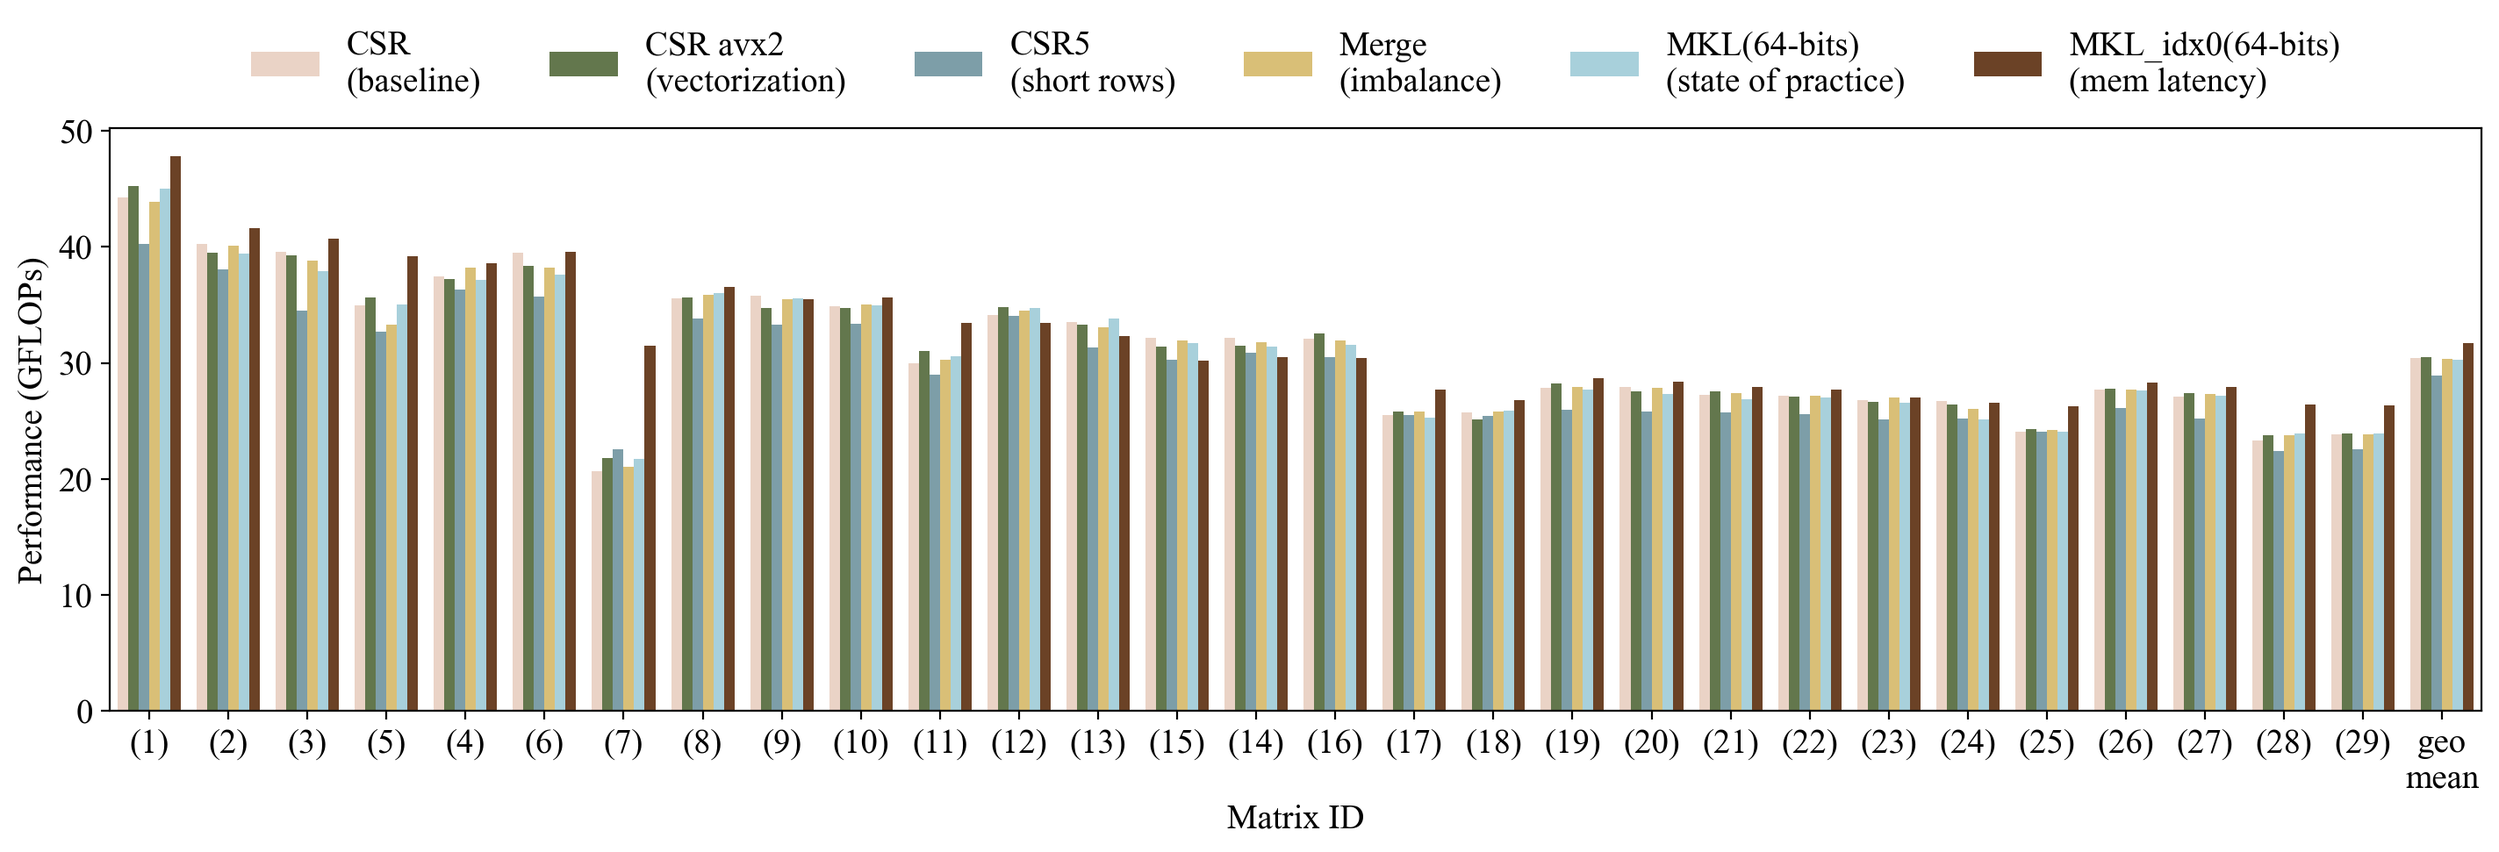
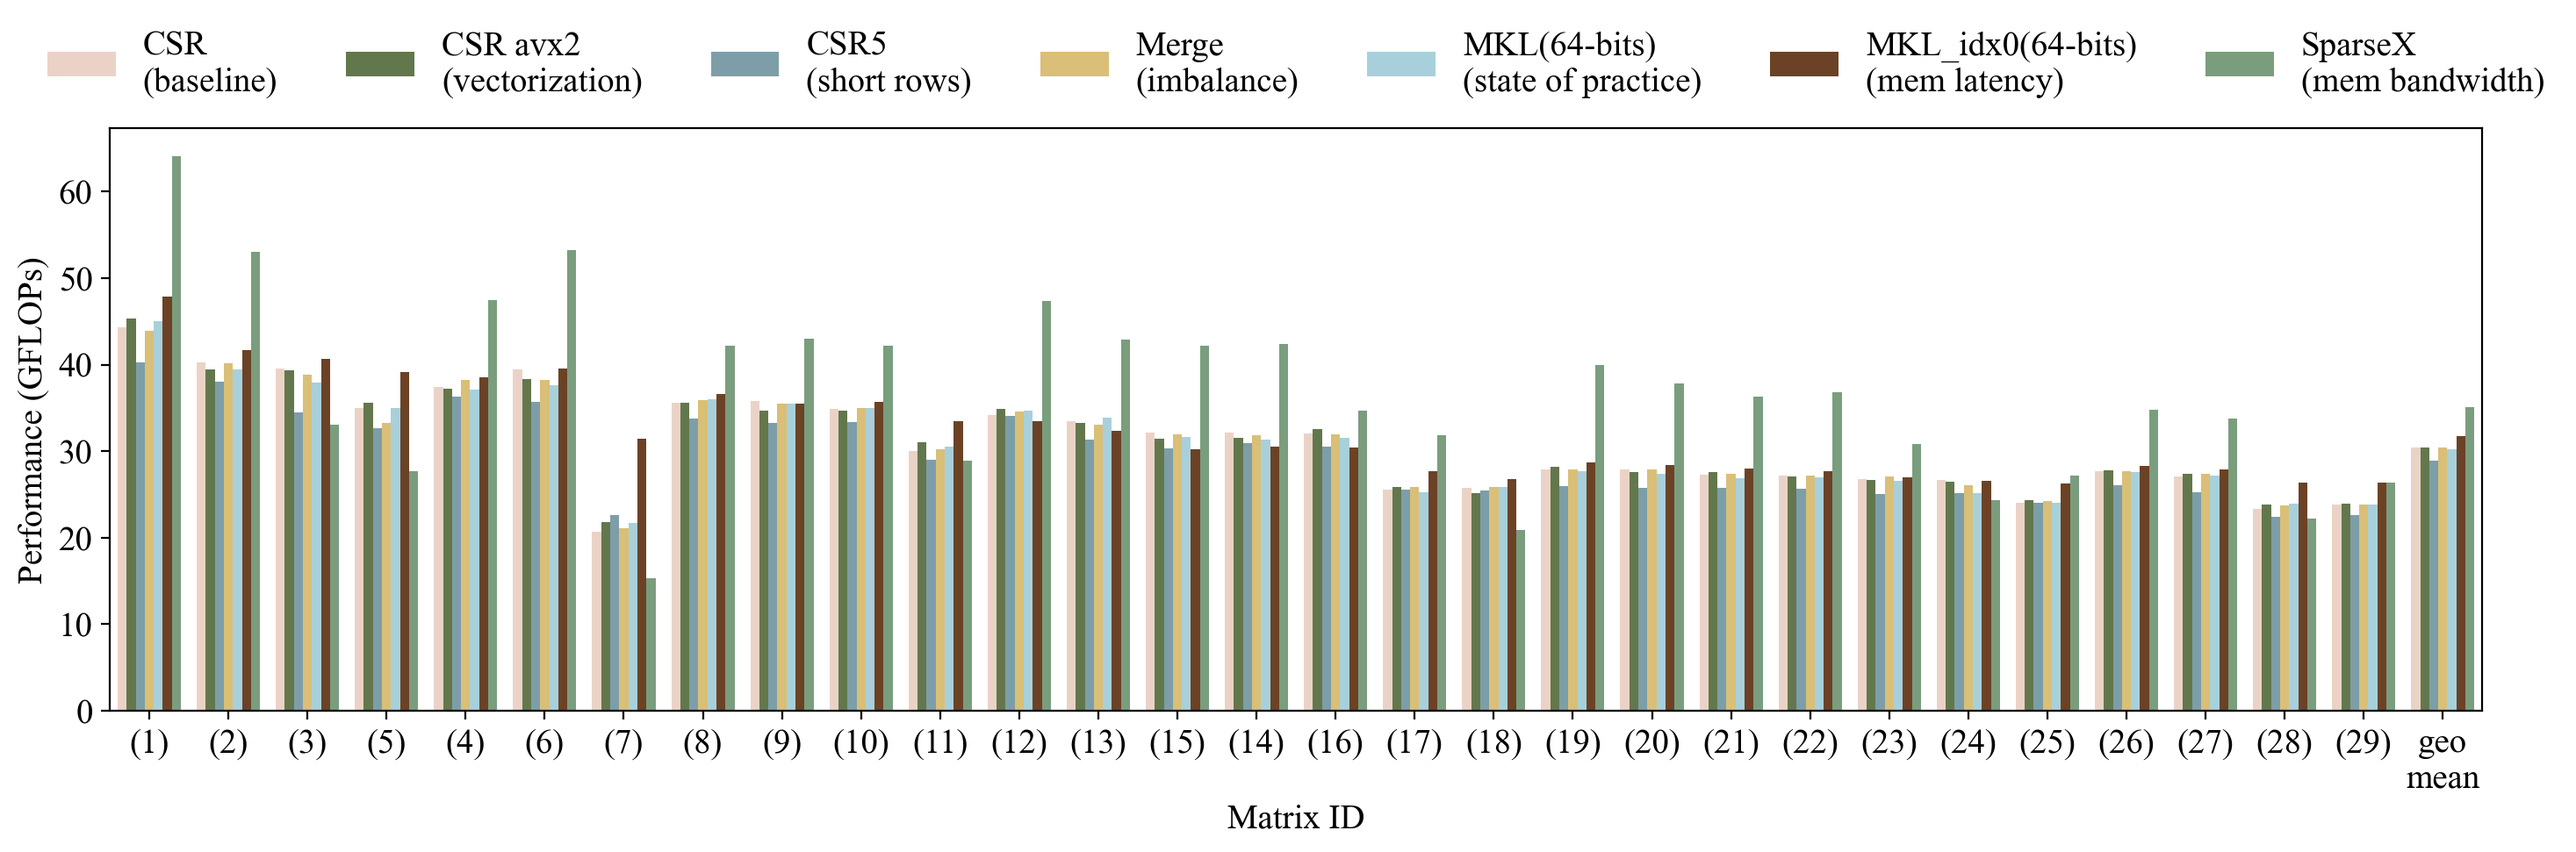
bottlenecks sparsex

diff --git a/plot_scripts/4_bottlenecks.py b/plot_scripts/4_bottlenecks.py
@@ -43,6 +43,10 @@ G.palette_format_dict['MKL(64-bits)\n(state of practice)'] = G.palette_format_di
 dfs.append(read_bench_file(G.bench_path + '/lumi/idx0/mkl_ie_d.csv', None, 'MKL_idx0(64-bits)\n(mem latency)', 'AMD-EPYC-64'))
 G.palette_format_dict['MKL_idx0(64-bits)\n(mem latency)'] = G.palette_format_dict['MKL_idx0(64-bits)']
 
+# bandwidth
+dfs.append(read_bench_file(G.bench_path + '/lumi/sparsex_d.csv', None, 'SparseX\n(mem bandwidth)', 'AMD-EPYC-64'))
+G.palette_format_dict['SparseX\n(mem bandwidth)'] = G.palette_format_dict['SparseX']
+
 
 df = concat_data_and_preprocess(dfs)
 
